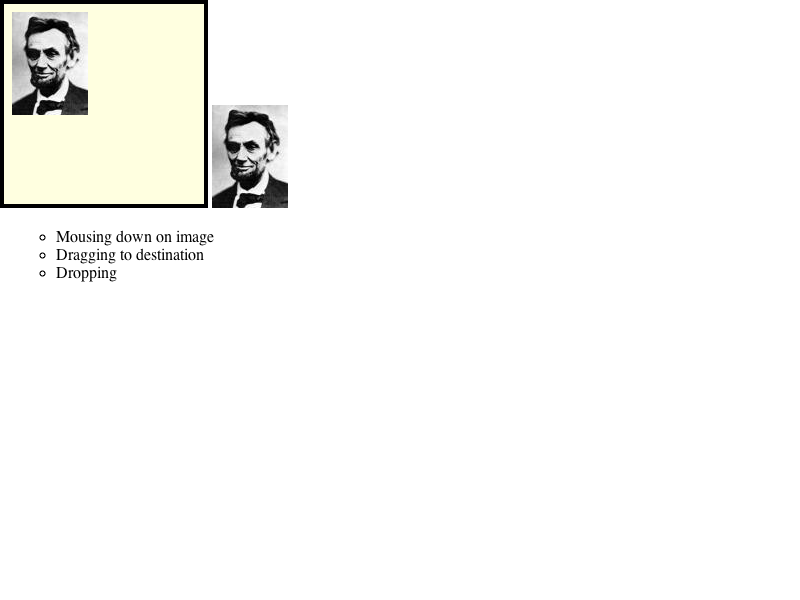
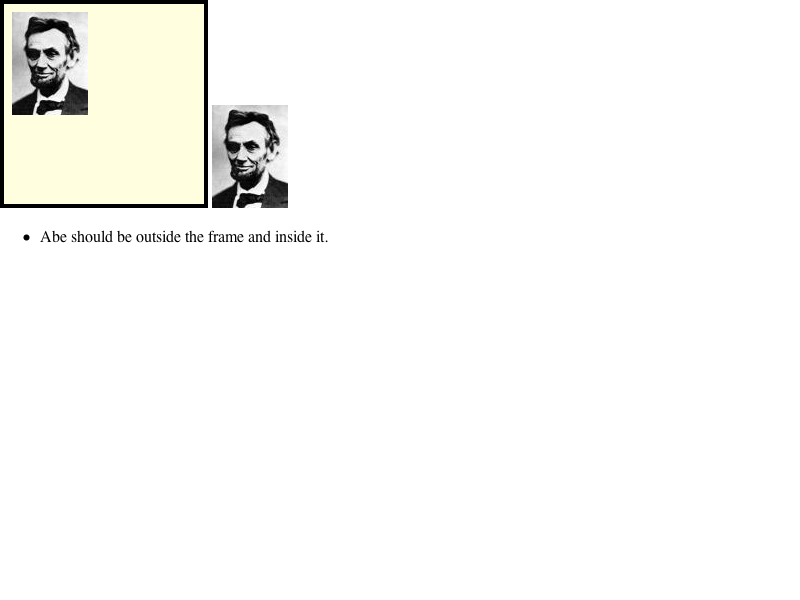
Reviewed by levi
Fixed and reenabled this test.

        * editing/selection/drag-to-contenteditable-iframe-expected.checksum:
        * editing/selection/drag-to-contenteditable-iframe-expected.png:
        * editing/selection/drag-to-contenteditable-iframe-expected.txt:
        * editing/selection/drag-to-contenteditable-iframe.html: Added.
        * editing/selection/drag-to-contenteditable-iframe.html-disabled: Removed.

Identifier: 12250@main
git-svn-id: https://svn.webkit.org/repository/webkit/trunk@14527 268f45cc-cd09-0410-ab3c-d52691b4dbfc

Changed region(s): [[0.0312, 0.39, 0.4062, 0.48]]

diff --git a/LayoutTests/editing/selection/drag-to-contenteditable-iframe.html b/LayoutTests/editing/selection/drag-to-contenteditable-iframe.html
@@ -1,0 +1,56 @@
+<html>
+<head>
+<script>
+function log(message) {
+    var console = document.getElementById("console");
+    var li = document.createElement("li");
+    var text = document.createTextNode(message);
+    
+    console.appendChild(li);
+    li.appendChild(text);
+}
+
+function runTest() {
+    if (window.layoutTestController)
+        layoutTestController.waitUntilDone();
+    // Let the subframe come into being.
+    window.setTimeout(step2, 100);
+}
+
+function step2() 
+{
+    if (!window.layoutTestController) {
+        log("This test uses the eventSender.  To run it manually, drag the image into the editable frame and drop it.  It should appear inside the editable frame.");
+        return;
+    }
+    
+    log("Abe should be outside the frame and inside it.");
+    
+    e = document.getElementById("dragme");
+    x = e.offsetLeft + e.offsetParent.offsetLeft + e.offsetWidth / 2;
+    y = e.offsetTop + e.offsetParent.offsetTop + e.offsetHeight / 2;
+
+    eventSender.mouseMoveTo(x, y);
+    eventSender.mouseDown();
+    eventSender.leapForward(1000);
+    
+    e = document.getElementById("frame");
+    x = e.offsetLeft + e.offsetParent.offsetLeft + e.offsetWidth / 2;
+    y = e.offsetTop + e.offsetParent.offsetTop + e.offsetHeight / 2;
+    
+    eventSender.mouseMoveTo(x, y);
+    eventSender.mouseUp();
+    
+    layoutTestController.notifyDone();
+}
+</script>
+</head>
+
+<body style="padding:0; margin:0">  
+
+<iframe id="frame" style="width: 200px; height: 200px; border: 4px solid black;" src="../resources/contenteditable-iframe-src.html"></iframe>
+<img id="dragme" src="../resources/abe.jpg">
+
+<ul id="console"></ul>
+<script>runTest();</script>
+</body>
